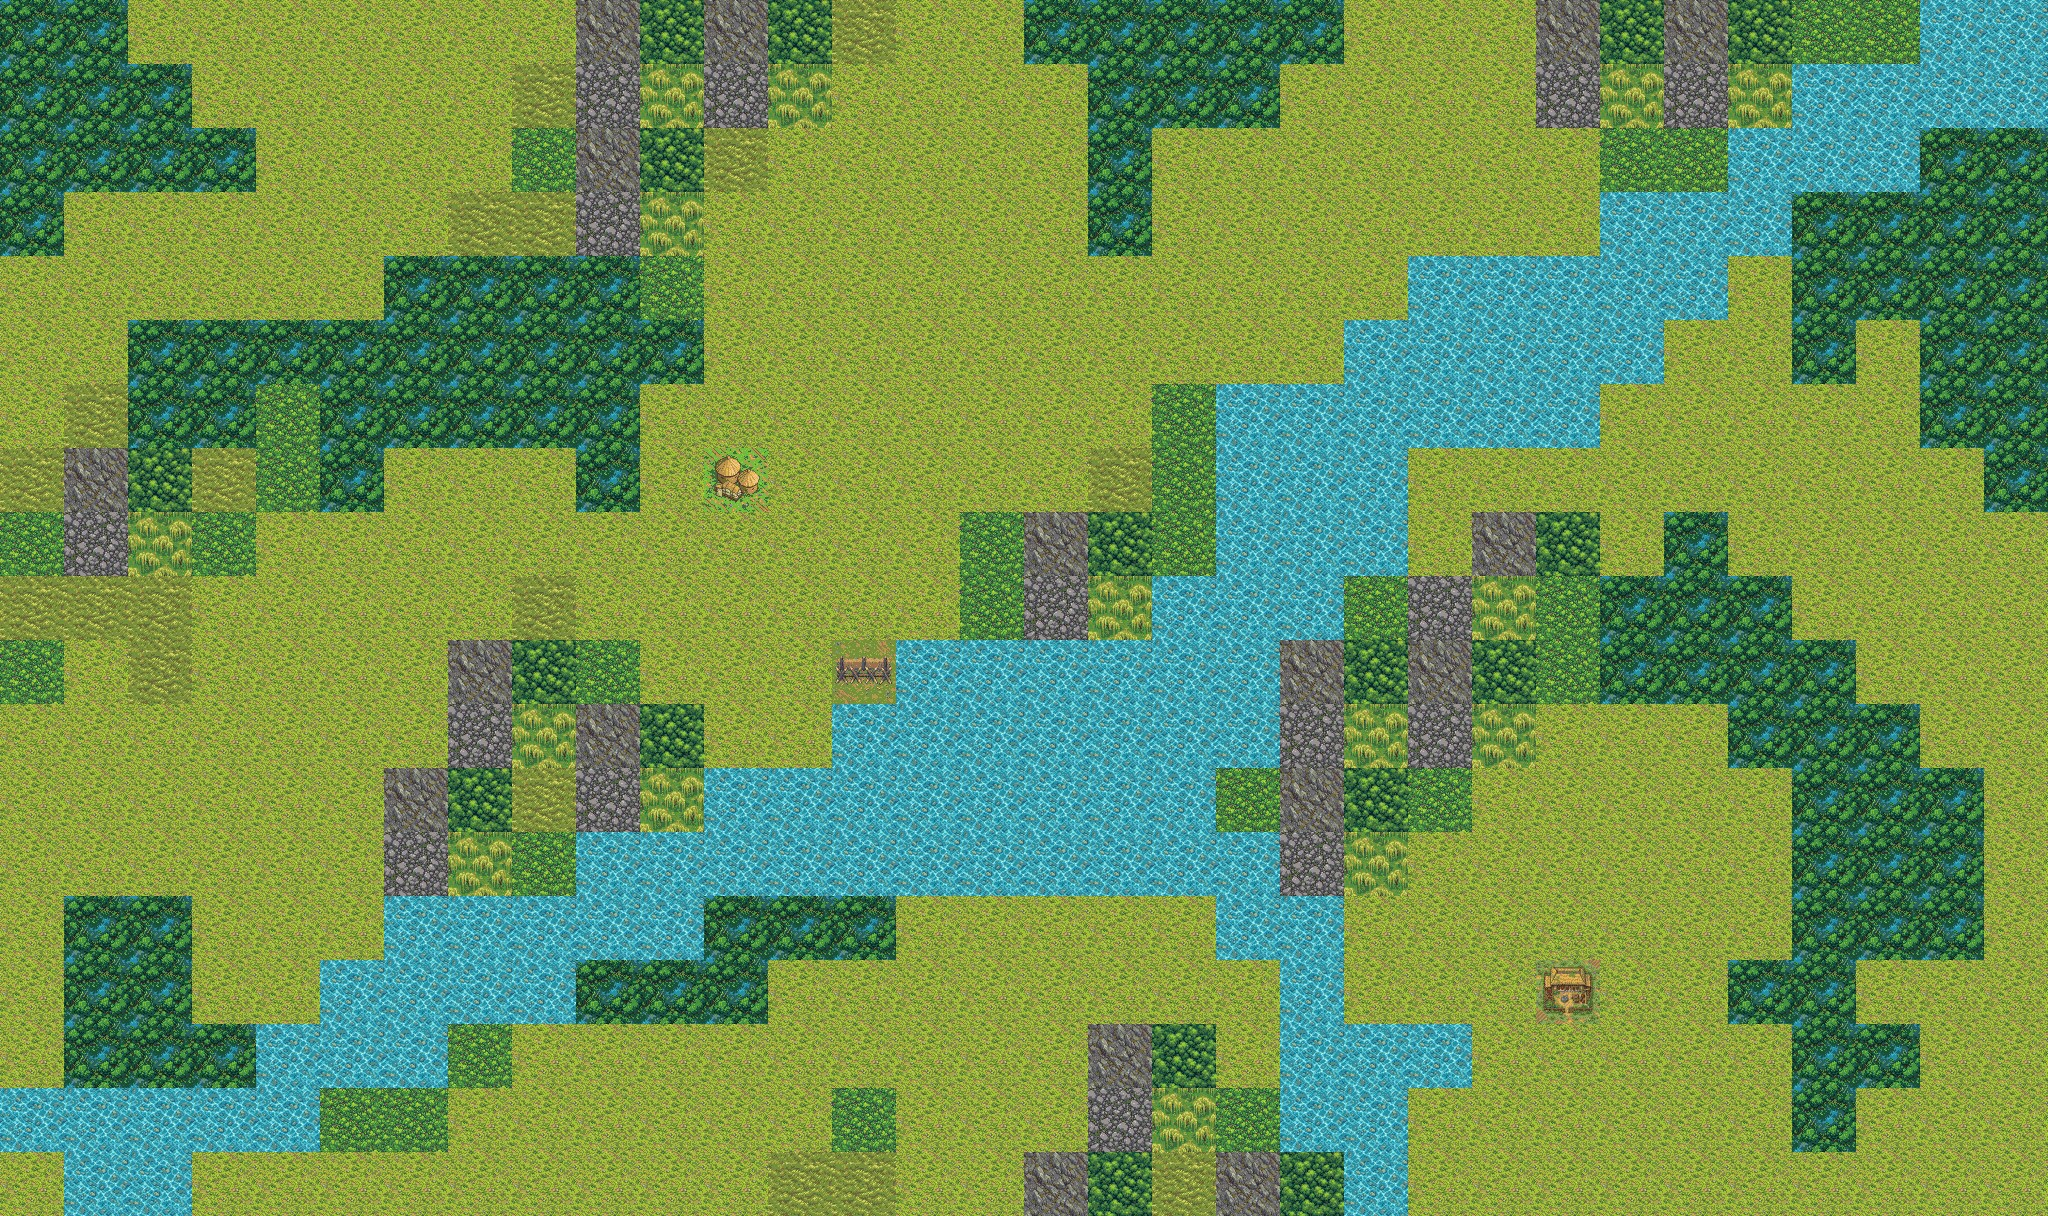
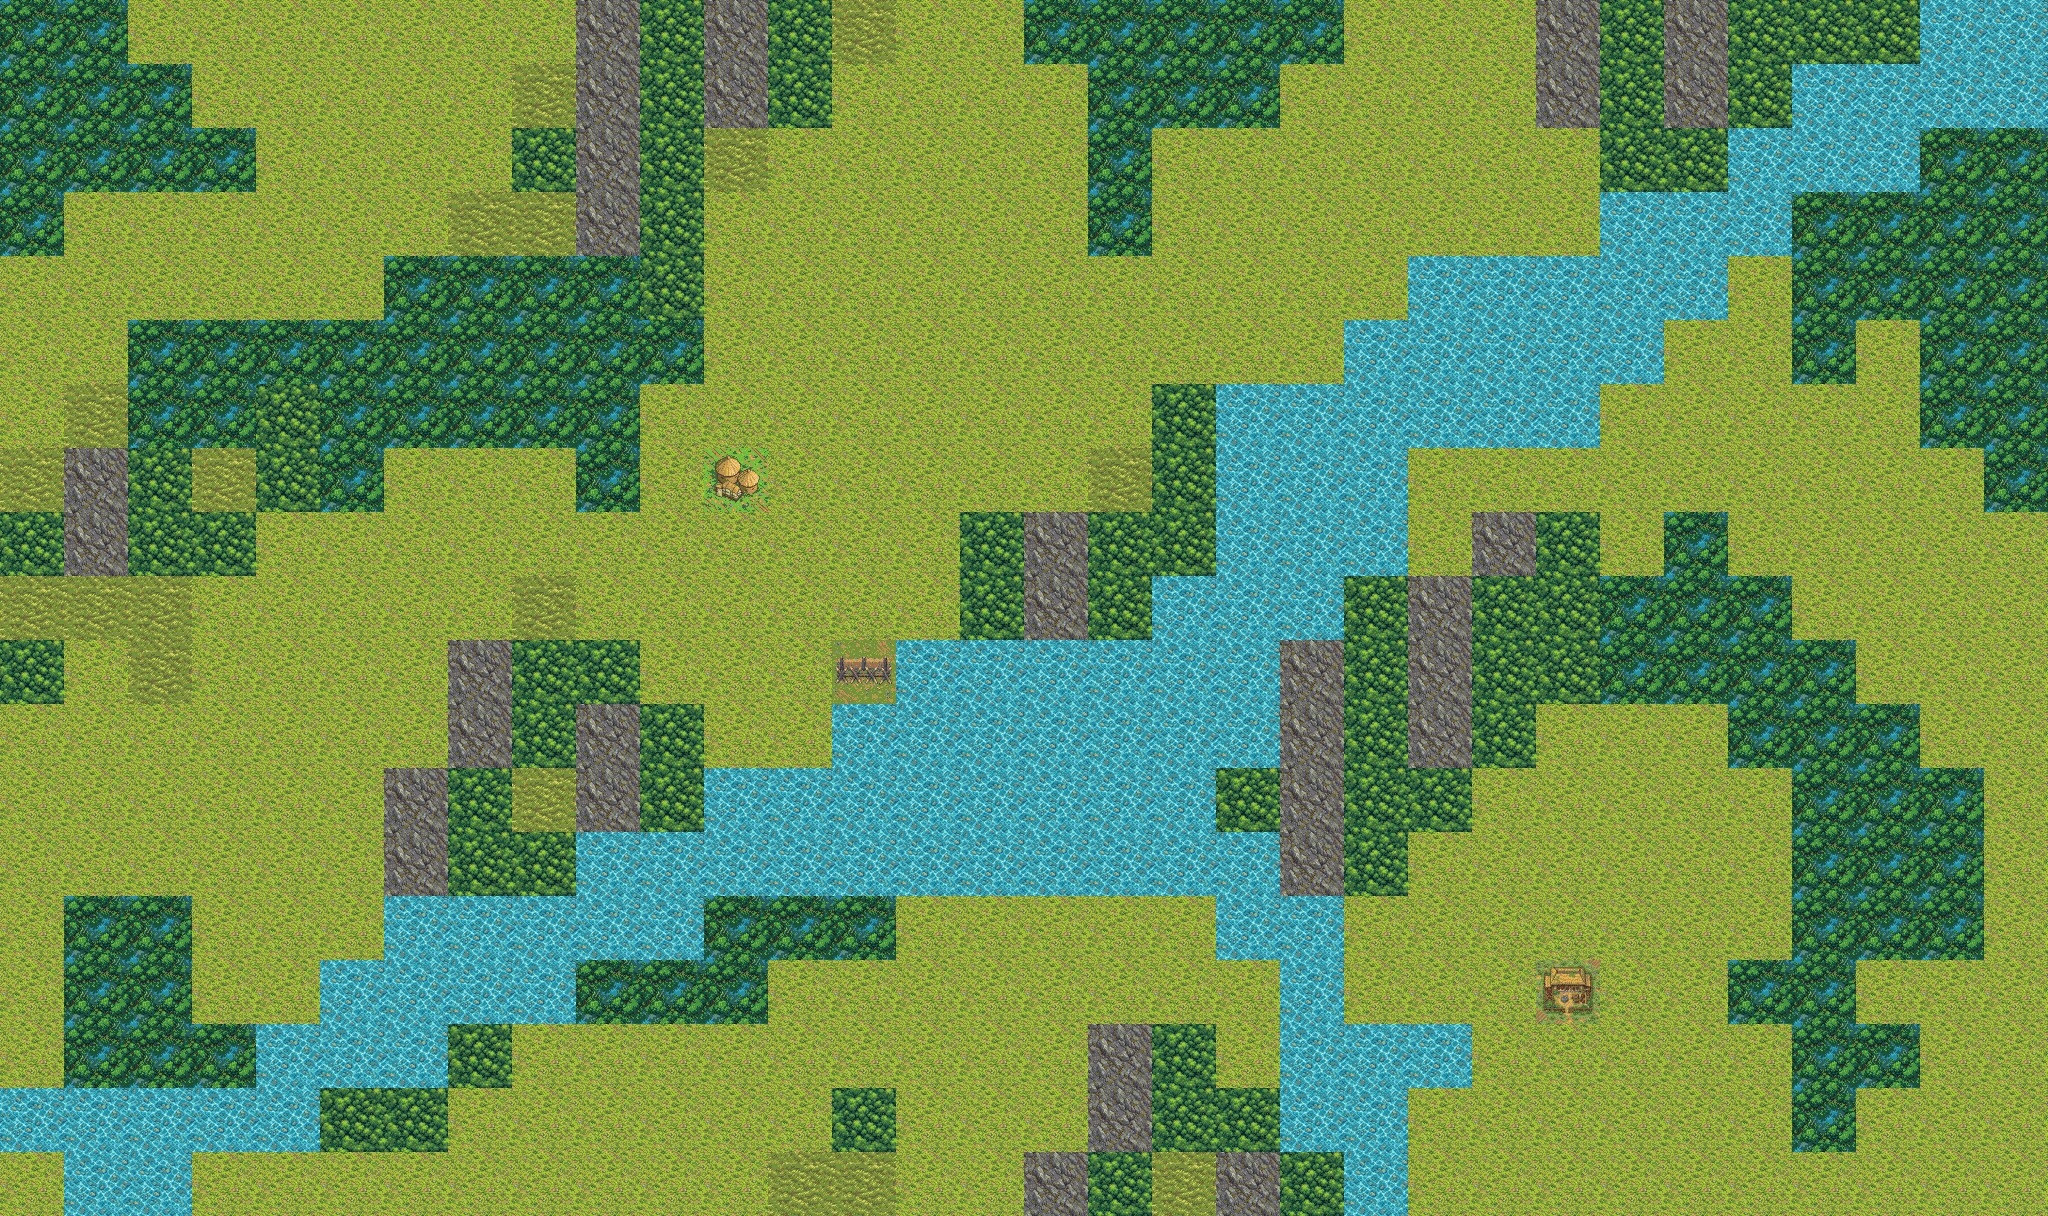
战场地块合并：7-12 从六种长相收到三种，灌木并进密林
7-12 六个码消耗完全一样，可以共用同一张图。第一版一码一张给了
岩峰/密林/灌木/垂柳/乱石/草坡六种，格子本来就小，种类多反而显得杂碎。
收成三张：8/10/11 → 密林（合计 9.0%，灌木并进来）、7/9 → 山岩、12 → 草坡。
一套主题从 13 张降到 10 张，层次反而更清楚。

不用重新生成——现有的岩峰/密林/草坡改个名就是新槽位，多余的三张删掉。

diff --git a/extract/mapgen/compose_battlefield.py b/extract/mapgen/compose_battlefield.py
@@ -11,7 +11,10 @@
      2            → block   障碍   (6/6/6)
      5            → ambush  埋伏点 (5/5/5)
      6            → water   水     (5/3/6)
-     7…12         → r1…r6   山林   (5/6/3)  六个码消耗相同，给六种长相
+     7, 9         → rock    山岩   (5/6/3)
+     8            → forest  密林   (5/6/3)
+     10, 11       → forest  密林   (5/6/3)   ← 灌木并进密林
+     12           → grass   草坡   (5/6/3)
 
    用法: compose_battlefield.py <城池ID> <主题> <地块目录> <输出png> [格边长=64]
 """
@@ -23,8 +26,10 @@ CELL = int(sys.argv[5]) if len(sys.argv) > 5 else 64
 HERE = os.path.dirname(os.path.abspath(__file__))
 ROOT = os.path.normpath(os.path.join(HERE, '..', '..'))
 
-SLOT = {0:'ground', 1:'wuku', 2:'block', 3:'cang', 4:'yao', 5:'ambush', 6:'water'}
-for c in range(7, 13): SLOT[c] = 'r%d' % (c - 6)
+# 7–12 六个码消耗完全一样，可以共用同一张图。
+# 灌木只留一种（码 10、11 共用），山岩一种（码 7、9 共用）。
+SLOT = {0:'ground', 1:'wuku', 2:'block', 3:'cang', 4:'yao', 5:'ambush', 6:'water',
+        7:'rock', 8:'forest', 9:'rock', 10:'forest', 11:'forest', 12:'grass'}
 
 def load(slot):
     fs = glob.glob(os.path.join(TILEDIR, 'bt_%s_%s*.png' % (THEME, slot)))

diff --git a/docs/UI_SCREENS.md b/docs/UI_SCREENS.md
@@ -228,7 +228,7 @@ python3 extract/mapgen/render_battlemap.py 19 work/_bm19.png   # 陈留
 python3 extract/mapgen/make_tile.py <生成图> <输出> 64 12
 ```
 
-### 一套主题 13 张
+### 一套主题 10 张
 
 地形码只有 0–12 在用（扫过 36 张 `.map`），13–15 从没出现。所以一套主题要 13 张：
 
@@ -241,8 +241,16 @@ python3 extract/mapgen/make_tile.py <生成图> <输出> 64 12
 | 6 | `water` 水 | 5/**3**/6 |
 | 7–12 | `r1`…`r6` 山林 | 5/6/**3** |
 
-**7–12 是六个独立的码但消耗完全一样**——白送六种长相（岩峰 / 密林 / 灌木 /
-垂柳 / 乱石 / 草坡），同一片「山地」里就有层次，不用改任何逻辑。
+**7–12 六个码消耗完全一样，可以共用同一张图**，不必一码一张：
+
+| 码 | 合计占比 | 画成 |
+|---|---|---|
+| 8 / 10 / 11 | 9.0% | 密林（灌木也并进来） |
+| 7 / 9 | 4.0% | 山岩 |
+| 12 | 3.9% | 草坡 |
+
+第一版给了六种长相（岩峰/密林/灌木/垂柳/乱石/草坡），看着杂而碎。
+合成三张之后层次反而清楚了——**格子本来就小，种类多不等于好看**。
 
 建筑格（1/3/4/2）不做无缝：它是「一样东西摆在本主题的地面上」，
 四邻本来就是别的地形。
